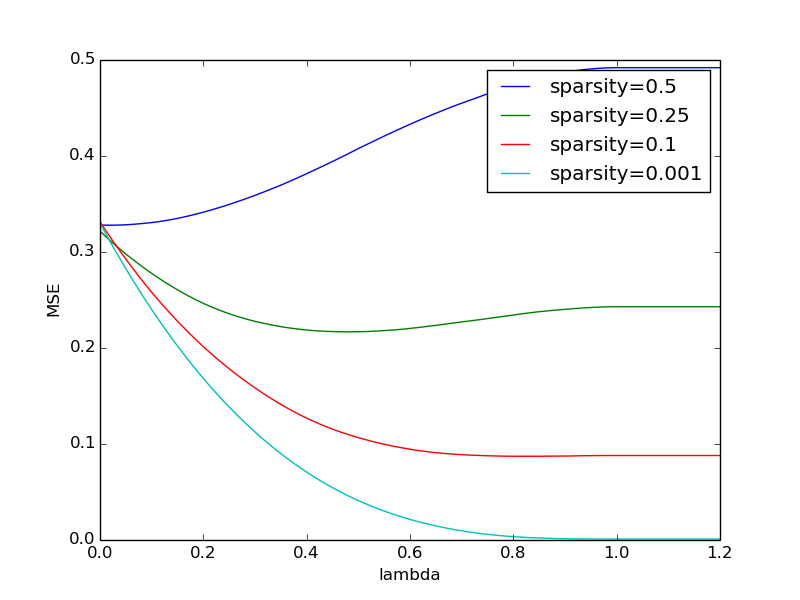
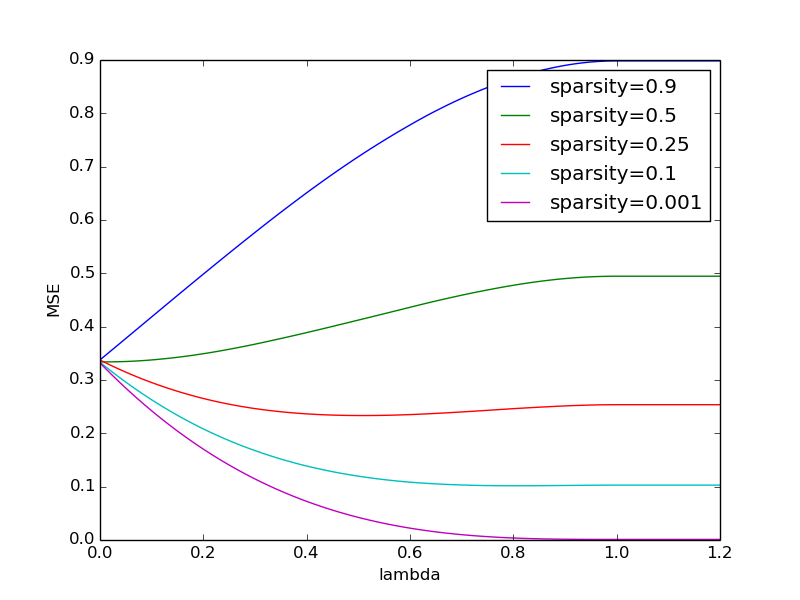
Add coeff plots

diff --git a/week4/better_sgd.py b/week4/better_sgd.py
@@ -29,8 +29,8 @@ def calc_l(X, y, b):
 #Check the convergance of the log likliehood function within some criteria, e. Return true if so
 def test_converge(l, e):
     if len(l)>5: 
-        conv = (l[len(l)-1]-l[len(l)-2])/l[len(l)-1]
-        #print conv
+        conv = (l[len(l)-1]-l[len(l)-2])#/l[len(l)-1]
+        print conv
         if abs(conv) < e:
             return True
         else:
@@ -47,7 +47,7 @@ def shuffle(X, y):
 def run_descent(X, y, b, e, step_size, l):
     batch_size = 1000
     hist_grad=0
-    #while not test_converge(l, e):
+    conv = False
     for i in xrange(len(y)/batch_size):
         if (i+1)*batch_size < len(y):
             X_temp = X[i*batch_size:(i+1)*batch_size]
@@ -58,7 +58,7 @@ def run_descent(X, y, b, e, step_size, l):
             y_temp = y[i*batch_size:]
             #b_temp = b[i*batch_size:]
 
-        #for j in xrange(10):
+            #for j in xrange(10):
             #for i,k in zip(X_bat.col, X_bat.data):
             #j = i%len(y)
             #if j==0:
@@ -69,8 +69,11 @@ def run_descent(X, y, b, e, step_size, l):
         b -= grad_b*step_size*(1/np.sqrt(hist_grad + e))
         #b[i*batch_size:(i+1)*batch_size] = b_temp
         l.append(calc_l(X, y, b))
-            #j+=1 
-    return b, l
+        #j+=1 
+        conv = test_converge(l, e)
+        if conv:
+            break
+    return b, l, conv
 
 #Test if the b found correctly predicts B or M, given X, y and calculated b. Return fraction of success
 def predict_acc(X, y, b):
@@ -114,7 +117,10 @@ l_tot = []
 for f in inFiles:
     X, y = read_file(f)
     l = []
-    b, l = run_descent(X, y, b, 0.0001, 0.01, l)
+    b, l, conv = run_descent(X, y, b, 0.05, 0.01, l)
+    print conv
+    if conv:
+        break
     l_tot = l_tot+l
     
     X = None
@@ -126,7 +132,7 @@ plt.plot(l_tot)
 
 plt.ylabel('-log likliehood')
 plt.xlabel('Iteration')
-plt.savefig('result_sgd.png', format = 'png')
+plt.savefig('result_better_sgd.png', format = 'png')
 
 #b_tot = b_tot/np.linalg.norm(b_tot, ord=1)
 #print "Step Size: "+str(step_size)

diff --git a/week5/lasso.py b/week5/lasso.py
@@ -4,14 +4,15 @@ import pandas as pd
 import matplotlib.pyplot as plt
 import sklearn as sk
 from sklearn import datasets
-from sklearn import preprocessing
+from sklearn.linear_model import Lasso
 
 #Calculate mse of estimate
-def calc_mse(s, theta):
+def calc_mse(y_pred, y, X):
     mse = 0
-    for i,j in zip(theta,s[:,0]):
+    xy = np.dot(X.T, y)
+    for i,j in zip(y,xy):
         mse+=np.square(i-j)
-    mse=mse/len(theta)
+    mse=mse/len(y)
     return mse
 
 #calculate prediction vector
@@ -25,25 +26,31 @@ def calc_s(y, lamb):
 X = pd.read_csv('diabetesX.csv')
 y = pd.read_csv('diabetesY.csv')
 y = y.values
-#y = y.reshape(y.shape[0],1)
+X = X.values
 
 #Use the rest for X. Scale X by the size of the vector
-min_max_scaler = preprocessing.MinMaxScaler()
-X = min_max_scaler.fit_transform(X)
-X = np.insert(X, 10, 1, axis=1)
+X /= X.std(axis=0)
+n_samples = X.shape[0]
+X_train, y_train = X[:n_samples // 2], y[:n_samples // 2]
+X_test, y_test = X[n_samples // 2:], y[n_samples // 2:]
 
-for z in [0.5, 0.25, 0.1, 0.001]:
-    theta = np.random.choice([0, 1], size=len(y), p=[1-z, z])
-    #norm = np.exp(-np.square(y-theta))
-    mse=[]
-    vec_lambda=np.linspace(0,1.2,100)
-    for lamb in vec_lambda:
-        s = calc_s(y, lamb)
-        mse.append(calc_mse(s, theta))
+plt.figure(1)
+mse=[]
+vec_lambda=np.linspace(0,9,100)
+for alpha in vec_lambda:
+    lasso = Lasso(alpha=alpha)
+    y_pred = lasso.fit(X_train, y_train).predict(X_test)
+    #s = calc_s(y_pred, alpha)
+    mse.append(calc_mse(y_test,y_pred,X_test))
+    if alpha%2==0 and alpha!=0:
+        plt.plot(lasso.coef_, label="Lambda: "+str(alpha))
+    
+plt.ylabel('Lasso Coefficients')
+plt.legend(loc='upper right')
+plt.savefig('result_lasso_coef.png', format='png')
 
-    plt.plot(vec_lambda, mse, label='sparsity='+str(z))
-
+plt.figure(2)
+plt.plot(vec_lambda, mse)
 plt.ylabel('MSE')
 plt.xlabel('lambda')
-plt.legend(loc='upper right')
-plt.savefig('result_lasso.png', format='png')
+plt.savefig('result_lasso_mse.png', format='png')

diff --git a/week5/penalized.py b/week5/penalized.py
@@ -22,12 +22,13 @@ def calc_s(y, lamb):
     return s
 
 #Define vector length, and sigma vector
-n=1000
+n=10000
 sigma = np.random.random(n)
 y = np.random.random(n)
-plt.figure()
+plt.figure(1)
+plt.figure(2)
 
-for z in [0.5, 0.25, 0.1, 0.001]:
+for z in [0.9, 0.5, 0.25, 0.1, 0.001]:
     theta = np.random.choice([0, 1], size=(n), p=[1-z, z])
     norm = np.exp(-np.square(y-theta)/(2*np.square(sigma)))
     mse=[]
@@ -36,13 +37,26 @@ for z in [0.5, 0.25, 0.1, 0.001]:
         s = calc_s(y, lamb)
         mse.append(calc_mse(s, theta))
 
+    plt.figure(1)
     plt.plot(vec_lambda, mse, label='sparsity='+str(z))
+    plt.figure(2)
+    th = theta
+    #th[th==0]=np.nan
+    #s[th==0]=np.nan
+    th=th*sigma
+    plt.plot(th, s, label='sparsity='+str(z))
 
+plt.figure(1)
 plt.ylabel('MSE')
 plt.xlabel('lambda')
 plt.legend(loc='upper right')
 plt.savefig('result_pen.png', format='png')
-    
+
+plt.figure(2)
+plt.xlabel('theta')
+plt.ylabel('s')
+plt.legend(loc='upper right')
+plt.savefig('result_theta.png', format='png')
     
         
         
